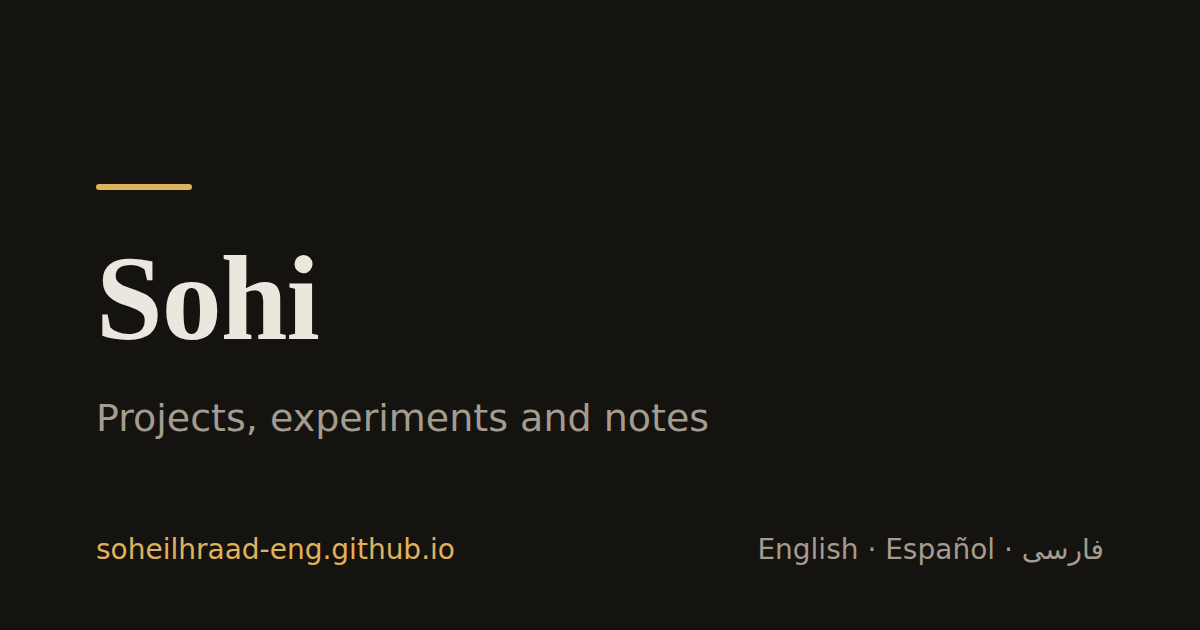
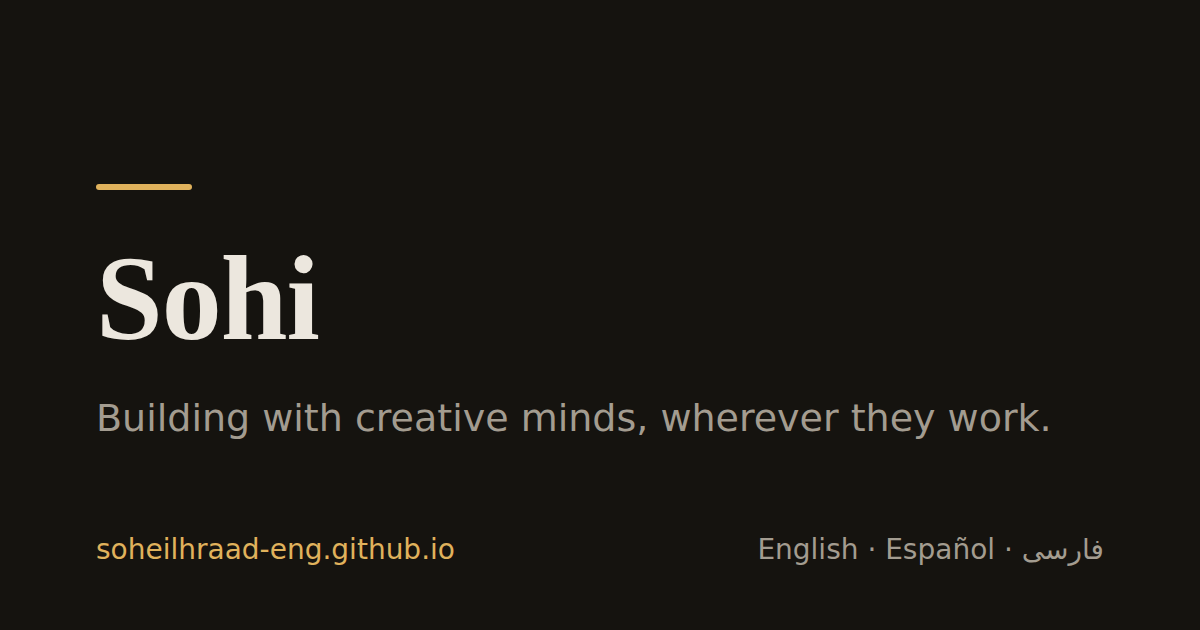
New home intro, and the NetLogo project becomes Small Town
The home page is now a short pitch to creative people who work from
anywhere, with "Start a project" and "See the work" buttons; the writing
list moves off it. The model page is renamed Small Town and framed as a
simulated small town, in all three languages, with the old name removed.
The link-preview image carries the new line.

Claude-Session: https://claude.ai/code/session_01DfKdvszX9FyNZ8eQ3hnntw

Changed region(s): [[0.0925, 0.6333, 0.8633, 0.6937]]

diff --git a/assets/css/style.scss b/assets/css/style.scss
@@ -46,6 +46,7 @@
   --font-display: "Vazirmatn", system-ui, sans-serif;
 }
 [lang="fa"] em, [lang="fa"] i { font-style: normal; }
+[lang="fa"] .eyebrow, [lang="fa"] .hero h1 { letter-spacing: 0; }
 // A Persian block inside a page in another language (the 404) still needs the font.
 :not(:root)[lang="fa"] { font-family: "Vazirmatn", system-ui, sans-serif; }
 
@@ -100,7 +101,17 @@ pre code { background: none; padding: 0; }
 .bar nav a:hover, .bar nav a[aria-current="page"] { color: var(--text); }
 .bar nav a[aria-current="page"] { text-decoration: underline; text-decoration-color: var(--accent); }
 
-.hero { padding: 1rem 0 0.5rem; }
+.hero { padding: 2.5rem 0 1.5rem; }
+.hero h1 { font-size: clamp(2.1rem, 6vw, 3.1rem); letter-spacing: -0.01em; max-width: 18ch; }
+.eyebrow {
+  margin: 0 0 1rem; font-size: 0.8rem; font-weight: 600; letter-spacing: 0.12em;
+  text-transform: uppercase; color: var(--accent);
+}
+.eyebrow::before {
+  content: ""; display: inline-block; width: 0.5em; height: 0.5em; margin-inline-end: 0.6em;
+  border-radius: 50%; background: currentColor; vertical-align: 0.1em;
+}
+.actions { display: flex; flex-wrap: wrap; gap: 0.75rem; margin-top: 2rem; }
 .lede { font-size: 1.2rem; color: var(--muted); margin-top: 0; }
 
 .cards { display: grid; gap: 1rem; grid-template-columns: repeat(auto-fill, minmax(16rem, 1fr)); }
@@ -117,6 +128,8 @@ pre code { background: none; padding: 0; }
   background: var(--accent); color: var(--bg); font-weight: 600; text-decoration: none;
 }
 .button:hover { filter: brightness(1.08); }
+.button.secondary { background: transparent; color: var(--text); box-shadow: inset 0 0 0 1px var(--border); font-weight: 500; }
+.button.secondary:hover { box-shadow: inset 0 0 0 1px var(--accent); filter: none; }
 
 .post-list { list-style: none; padding: 0; margin: 0; }
 .post-list li { display: flex; flex-wrap: wrap; gap: 0 1rem; padding: 0.4rem 0; border-bottom: 1px solid var(--border); }

diff --git a/fa/small-town.md b/fa/small-town.md
@@ -1,12 +1,12 @@
 ---
 layout: page
-title: مدل فرهنگپذیری بنبری
-description: مدلی عاملبنیان در NetLogo درباره اینکه اسکان مهاجران چطور به یکپارچگی یا جدایی میانجامد، بر اساس پذیرندگی جامعه میزبان، آمادگی فردی و ظرفیت نهادها.
-permalink: /fa/projects/banbury-model/
-ref: banbury
+title: شهر کوچک
+description: یک شهر کوچک، شبیهسازیشده در NetLogo. تازهواردها ساکن میشوند، پیوندها شکل میگیرند، و یکپارچگی یا جدایی از پذیرندگی ساکنان، آمادگی فردی و ظرفیت خدمات محلی پدید میآید.
+permalink: /fa/projects/small-town/
+ref: small-town
 ---
 
-<p class="lede">مدلی عاملبنیان، ساختهشده در NetLogo، درباره اینکه اسکان مهاجران چه زمانی به یکپارچگی میانجامد و چه زمانی به جدایی.</p>
+<p class="lede">یک شهر کوچک، شبیهسازیشده در NetLogo. تازهواردها از راه میرسند، پیوندها شکل میگیرند، و شهر نشان میدهد اسکان چه زمانی به یکپارچگی میانجامد و چه زمانی به جدایی.</p>
 
 ## پرسش
 
@@ -16,7 +16,7 @@ ref: banbury
 
 ## چطور کار میکند
 
-مهاجران و میزبانان عاملهاییاند که به مرور زمان پیوندهای اجتماعی میسازند. نتیجه هر مهاجر
+این مدل یک شهر کوچک است. تازهواردها در کنار ساکنان قدیمی ساکن میشوند، و هر فرد در آن عاملی است که به مرور زمان پیوندهای اجتماعی میسازد. خدمات محلی شهر فقط میتوانند به تعداد محدودی از افراد در یک زمان رسیدگی کنند. نتیجه هر مهاجر
 تعیین یا نمرهدهی نمیشود، بلکه **از شبکه او خوانده میشود**: اینکه واقعاً با چه کسانی در
 ارتباط است، هم درون جامعه خودش و هم با جامعه میزبان. یکپارچگی، جدایی و دیگر نتیجهها
 الگوهایی در همین پیوندها هستند، نه برچسب.

diff --git a/es/small-town.md b/es/small-town.md
@@ -1,12 +1,12 @@
 ---
 layout: page
-title: Modelo de aculturación de Banbury
-description: Un modelo basado en agentes, hecho en NetLogo, sobre cómo el asentamiento de migrantes produce integración o separación, según la receptividad de la sociedad de acogida, la preparación individual y la capacidad de las instituciones.
-permalink: /es/projects/banbury-model/
-ref: banbury
+title: Pueblo pequeño
+description: Un pueblo pequeño, simulado en NetLogo. Llegan recién llegados, se crean vínculos y la integración o la separación surgen de la receptividad de los vecinos, la preparación individual y la capacidad de los servicios locales.
+permalink: /es/projects/small-town/
+ref: small-town
 ---
 
-<p class="lede">Un modelo basado en agentes, hecho en NetLogo, sobre cuándo el asentamiento de migrantes lleva a la integración y cuándo a la separación.</p>
+<p class="lede">Un pueblo pequeño, simulado en NetLogo. Llega gente nueva, se crean vínculos y el pueblo muestra cuándo el asentamiento lleva a la integración y cuándo a la separación.</p>
 
 ## La pregunta
 
@@ -16,7 +16,7 @@ de esas palancas inclina de verdad la balanza entre integración y separación?
 
 ## Cómo funciona
 
-Migrantes y población de acogida son agentes que crean vínculos sociales con el tiempo. El
+El modelo es un pueblo pequeño. Los recién llegados se asientan entre los vecinos de siempre, y cada persona es un agente que crea vínculos sociales con el tiempo. Los servicios locales del pueblo solo pueden atender a cierto número de personas a la vez. El
 resultado de cada migrante no se asigna ni se puntúa: **se lee en su red**, es decir, con quién
 está realmente conectado, dentro de su propia comunidad y con la sociedad de acogida. La
 integración, la separación y los demás resultados son patrones en esos vínculos, no etiquetas.

diff --git a/small-town.md b/small-town.md
@@ -1,12 +1,12 @@
 ---
 layout: page
-title: Banbury Acculturation Model
-description: An agent-based model in NetLogo of how migrant settlement produces integration or separation, through host receptivity, individual preparedness and institutional capacity.
-permalink: /projects/banbury-model/
-ref: banbury
+title: Small Town
+description: A small town, simulated in NetLogo. Newcomers settle, ties form, and integration or separation emerges from host receptivity, individual preparedness and the capacity of local services.
+permalink: /projects/small-town/
+ref: small-town
 ---
 
-<p class="lede">An agent-based model, built in NetLogo, of when migrant settlement leads to integration and when it leads to separation.</p>
+<p class="lede">A small town, simulated in NetLogo. Newcomers arrive, ties form, and the town shows when settlement leads to integration and when it leads to separation.</p>
 
 ## The question
 
@@ -16,7 +16,7 @@ the balance between integration and separation?
 
 ## How it works
 
-Migrants and hosts are agents who form social ties over time. A migrant's outcome isn't
+The model is a small town. Newcomers settle among long-standing residents, and every person in it is an agent who forms social ties over time. The town's local services can take only so many people at once. A migrant's outcome isn't
 assigned or scored. It's **read from their network**: whom they are actually connected to,
 within their own community and across to the host community. Integration, separation and the
 other outcomes are patterns in those ties, not labels.

diff --git a/fa/index.md b/fa/index.md
@@ -6,13 +6,14 @@ permalink: /fa/
 ---
 {%- assign t = site.data.i18n[page.lang] -%}
 <section class="hero">
-  <h1>سلام، من سهی هستم.</h1>
-  <p class="lede">چیزهایی میسازم تا بفهمم چطور کار میکنند: اپلیکیشنهای هوش مصنوعی، ابزارهای یادگیری زبان و شبیهسازیها.</p>
+  <p class="eyebrow">آماده همکاری</p>
+  <h1>ساختن همراه با ذهنهای خلاق، هر جا که کار کنند.</h1>
+  <p class="lede">اپلیکیشنهای هوش مصنوعی، ابزارهای چندزبانه و شبیهسازیها، طراحیشده و ساختهشده از ابتدا تا انتها، از راه دور، به فارسی، انگلیسی و اسپانیایی.</p>
+  <p class="actions">
+    <a class="button" href="{{ site.contact_url }}">شروع یک پروژه {{ t.arrow }}</a>
+    <a class="button secondary" href="{{ t.prefix | append: '/projects/' | relative_url }}">دیدن کارها</a>
+  </p>
 </section>
 
 <h2>{{ t.projects }}</h2>
 {% include project-cards.html %}
-<p><a href="{{ t.prefix | append: '/projects/' | relative_url }}">{{ t.all_projects }} {{ t.arrow }}</a></p>
-
-<h2>{{ t.writing }}</h2>
-{% include post-list.html limit=5 %}

diff --git a/es/index.md b/es/index.md
@@ -6,13 +6,14 @@ permalink: /es/
 ---
 {%- assign t = site.data.i18n[page.lang] -%}
 <section class="hero">
-  <h1>Hola, soy Sohi.</h1>
-  <p class="lede">Construyo cosas para entender cómo funcionan: aplicaciones de IA, herramientas para aprender idiomas y simulaciones.</p>
+  <p class="eyebrow">Abierto a colaborar</p>
+  <h1>Construyendo con mentes creativas, trabajen donde trabajen.</h1>
+  <p class="lede">Aplicaciones de IA, herramientas multilingües y simulaciones, diseñadas y construidas de principio a fin, en remoto, en español, inglés y persa.</p>
+  <p class="actions">
+    <a class="button" href="{{ site.contact_url }}">Empezar un proyecto {{ t.arrow }}</a>
+    <a class="button secondary" href="{{ t.prefix | append: '/projects/' | relative_url }}">Ver el trabajo</a>
+  </p>
 </section>
 
 <h2>{{ t.projects }}</h2>
 {% include project-cards.html %}
-<p><a href="{{ t.prefix | append: '/projects/' | relative_url }}">{{ t.all_projects }} {{ t.arrow }}</a></p>
-
-<h2>{{ t.writing }}</h2>
-{% include post-list.html limit=5 %}

diff --git a/index.md b/index.md
@@ -5,13 +5,14 @@ ref: home
 ---
 {%- assign t = site.data.i18n[page.lang] -%}
 <section class="hero">
-  <h1>Hi, I'm Sohi.</h1>
-  <p class="lede">I build things to find out how they work: AI apps, language tools and simulations.</p>
+  <p class="eyebrow">Open to collaboration</p>
+  <h1>Building with creative minds, wherever they work.</h1>
+  <p class="lede">AI applications, multilingual tools and simulations, designed and built end to end, remotely, in English, Spanish and Persian.</p>
+  <p class="actions">
+    <a class="button" href="{{ site.contact_url }}">Start a project {{ t.arrow }}</a>
+    <a class="button secondary" href="{{ t.prefix | append: '/projects/' | relative_url }}">See the work</a>
+  </p>
 </section>
 
 <h2>{{ t.projects }}</h2>
 {% include project-cards.html %}
-<p><a href="{{ t.prefix | append: '/projects/' | relative_url }}">{{ t.all_projects }} {{ t.arrow }}</a></p>
-
-<h2>{{ t.writing }}</h2>
-{% include post-list.html limit=5 %}

diff --git a/README.md b/README.md
@@ -114,9 +114,8 @@ reason a new post goes missing. Set `timezone:` in `_config.yml` so "now" is you
 
 - **Review the Spanish and Persian text**, which was drafted by Claude. In particular, check
   that «سهی» is how you write your name in Persian.
-- `about.md` and the home page intro, in all three languages: needs the throughline, the sentence connecting
-  the projects. The current wording is a placeholder.
-- `_config.yml`: `description:` should become that same throughline once it exists,
-  and `timezone:` should be set to yours.
+- `about.md`, in all three languages: still placeholder wording.
+- `_config.yml`: set `contact_url:` to how you want people to reach you (it's the home
+  page's "Start a project" button, and points to GitHub for now), and set `timezone:`.
 - `assets/css/style.scss`: a starting palette, worth revisiting once the throughline
   (and any visual identity that follows from it) is settled.
